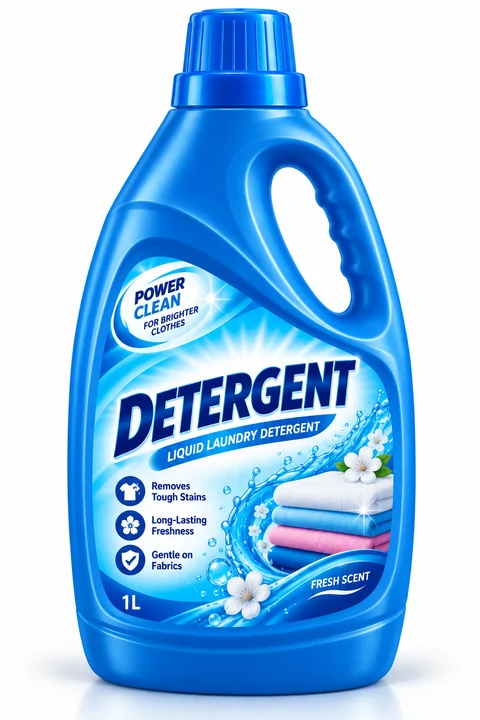
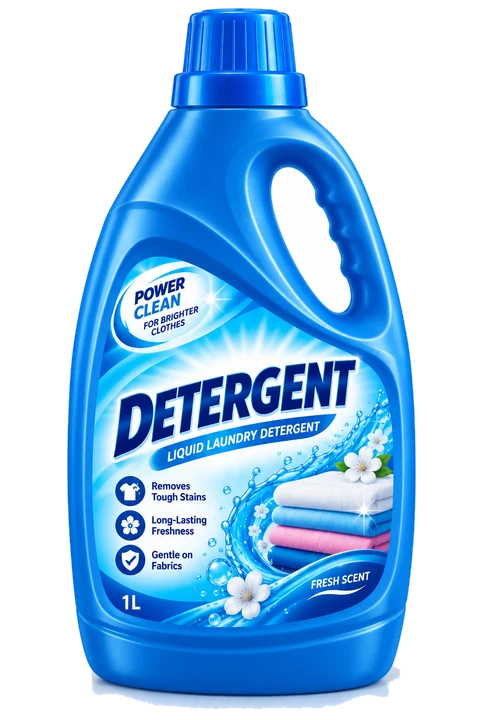
polish(dashboard): product photos are cut out, so the tile can follow the theme
The six renders were opaque on a near-white ground. Invisible against a light
tile, which is why it went unnoticed -- and the reason dark mode had to force a
light tile, or every bottle sat in a white box on a dark card.

Cut with a flood fill seeded along the whole border, not from one corner: a
single seed leaves the background split by the bottle's own shadow. Seeding the
perimeter reaches all of it, and because the fill only ever travels inward from
outside, it cannot cross the bottle's rim.

That last property took two attempts to respect. A region-grow was tried first
to reach the soft ground reflection, which no single flood threshold gets
without also eating artwork -- and it did exactly that, taking a bite out of
the left edge of the white BLEACH bottle, which is near-white and low
saturation like the background it sits on. A percentage guard let it through
because the damage was under the limit I had guessed at. The screenshot caught
it, not the number.

The reflection is handled without that risk now: per column, find the lowest
pixel that is genuinely product -- dark or saturated -- and clear only what
lies below it. That line is always beneath the bottle's own base, white bottle
or not, so the pass cannot reach up into the artwork. Alpha is feathered by
0.6px, because the rim the fill cannot claim is half background and a hard cut
there reads as jagged.

A little reflection survives where it touches the base on three of the six. It
[…]

Changed region(s): [[0.0938, 0.9167, 0.9062, 1.0]]

diff --git a/cashier_dashboard/public/css/v2.css b/cashier_dashboard/public/css/v2.css
@@ -98,9 +98,10 @@
   --shadow:        0 1px 2px rgba(0, 0, 0, .4), 0 8px 24px rgba(0, 0, 0, .45);
   --shadow-soft:   0 1px 2px rgba(0, 0, 0, .35);
 }
-/* The product photos are shot on near-white, so they keep a light tile in dark
-   mode rather than floating on a dark card with a white box around them. */
-:root[data-theme="dark"] .v2-prod-img { background: #E8ECF1; }
+/* The photos carry their own alpha now, so the tile can follow the theme --
+   before the backgrounds were cut out this had to stay light, or every bottle
+   sat in a white box on a dark card. */
+:root[data-theme="dark"] .v2-prod-img { background: var(--surface-sub); }
 :root[data-theme="dark"] .v2-badge { filter: brightness(.85) saturate(1.1); }
 @supports (backdrop-filter: blur(1px)) {
   :root[data-theme="dark"] #settings-panel,
